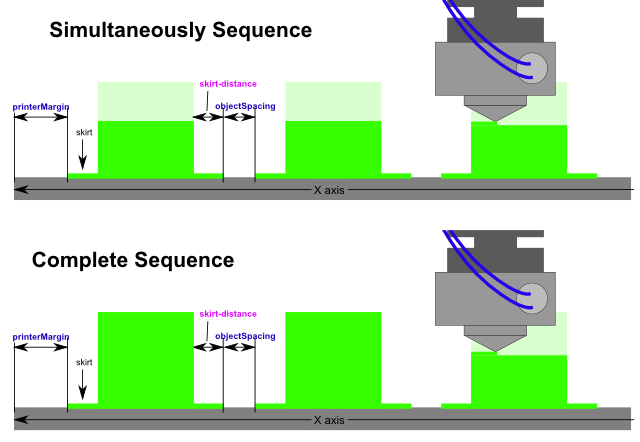
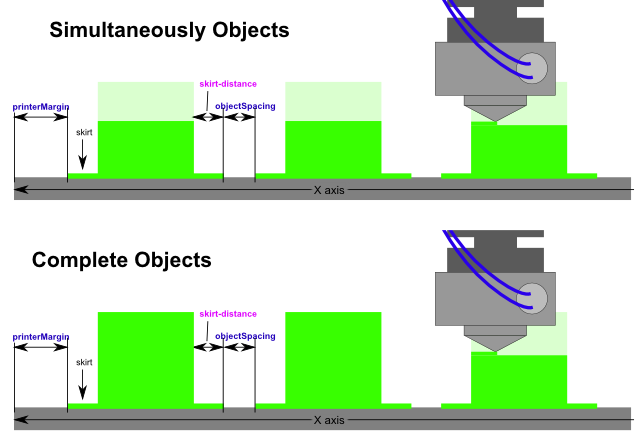
illustration with more details

Changed region(s): [[0.2188, 0.5588, 0.375, 0.6176], [0.3125, 0.0294, 0.5, 0.0882]]

diff --git a/README.md b/README.md
@@ -141,6 +141,10 @@ defines the build-volume, margin of the built-platform toward the pieces, all va
 % gctoolbox --printerX=200 --printerY=180 --printerMargin=5 --printerExtruderDiameter=20 --objectSpacing=5 3x cube10mm.gcode > 3cubes.gcode
 </pre>
 
+<h3>Sequences</h3>
+
+<img src="imgs/sequences.png">
+
 <h3>Collision Awareness</h3>
 
 Right now <tt>gctoolbox</tt> concatenates pieces so they are printed individually complete first (later version may include an option to change this behaviour), which poses some danger that the extruder nozzle crashes into existing already printed items:
